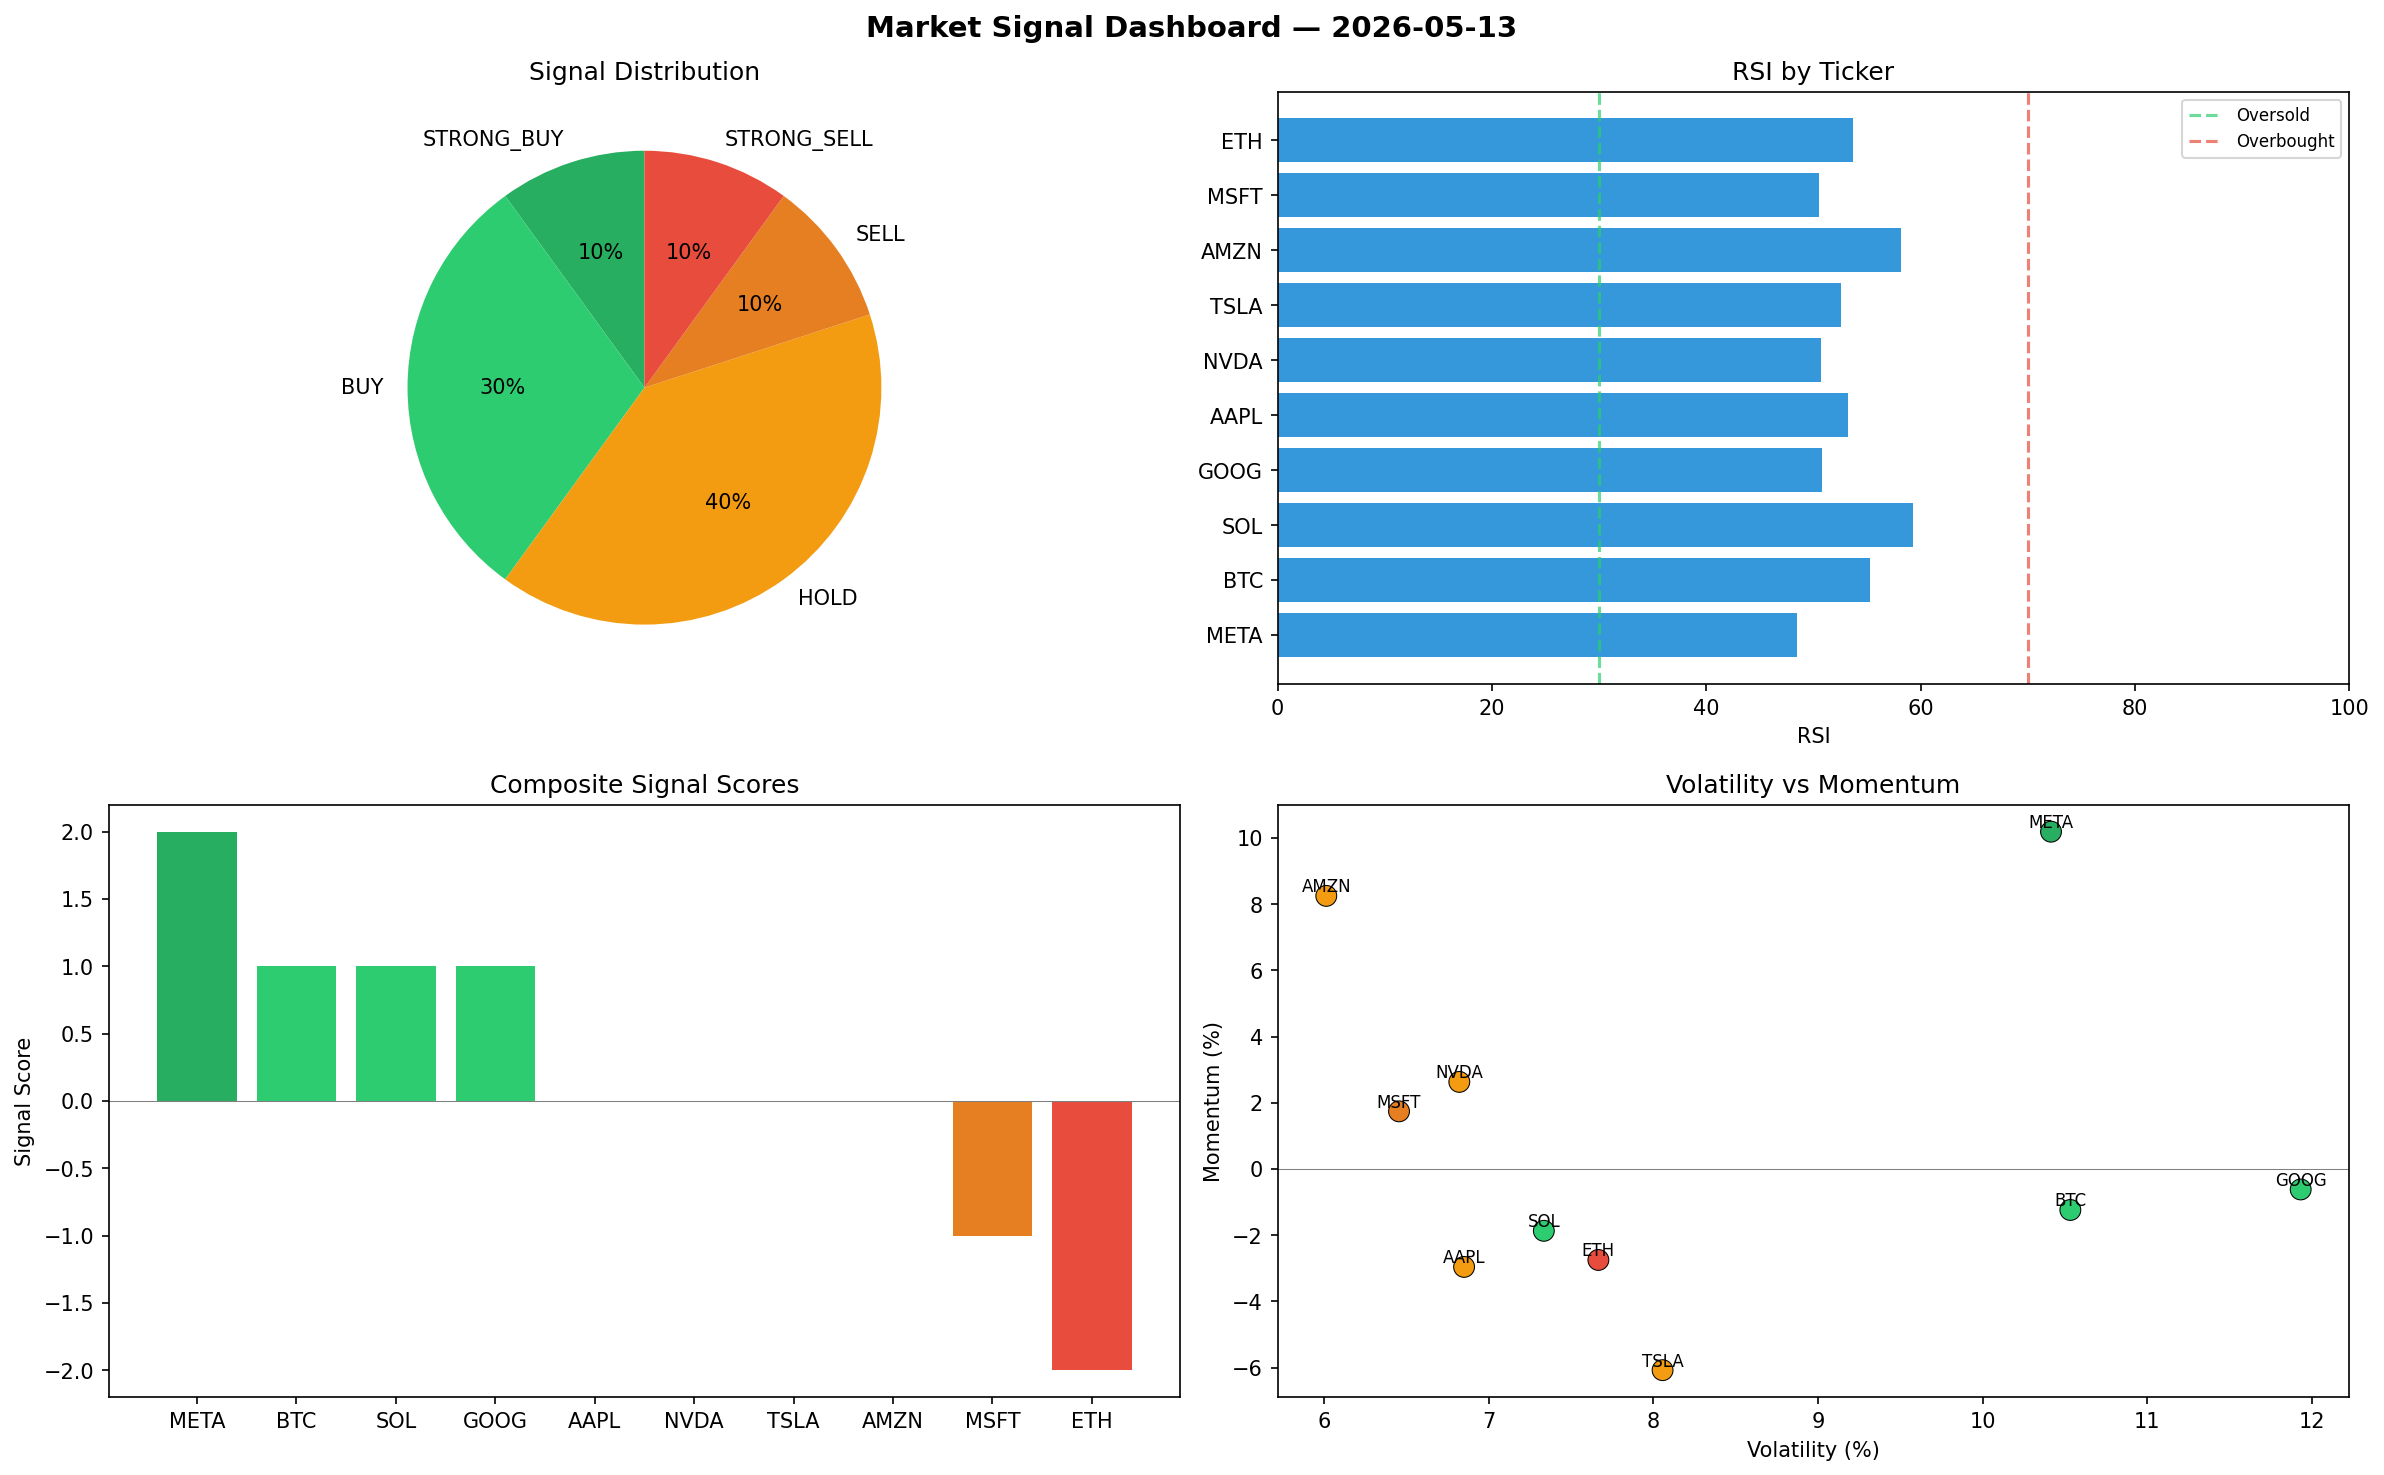
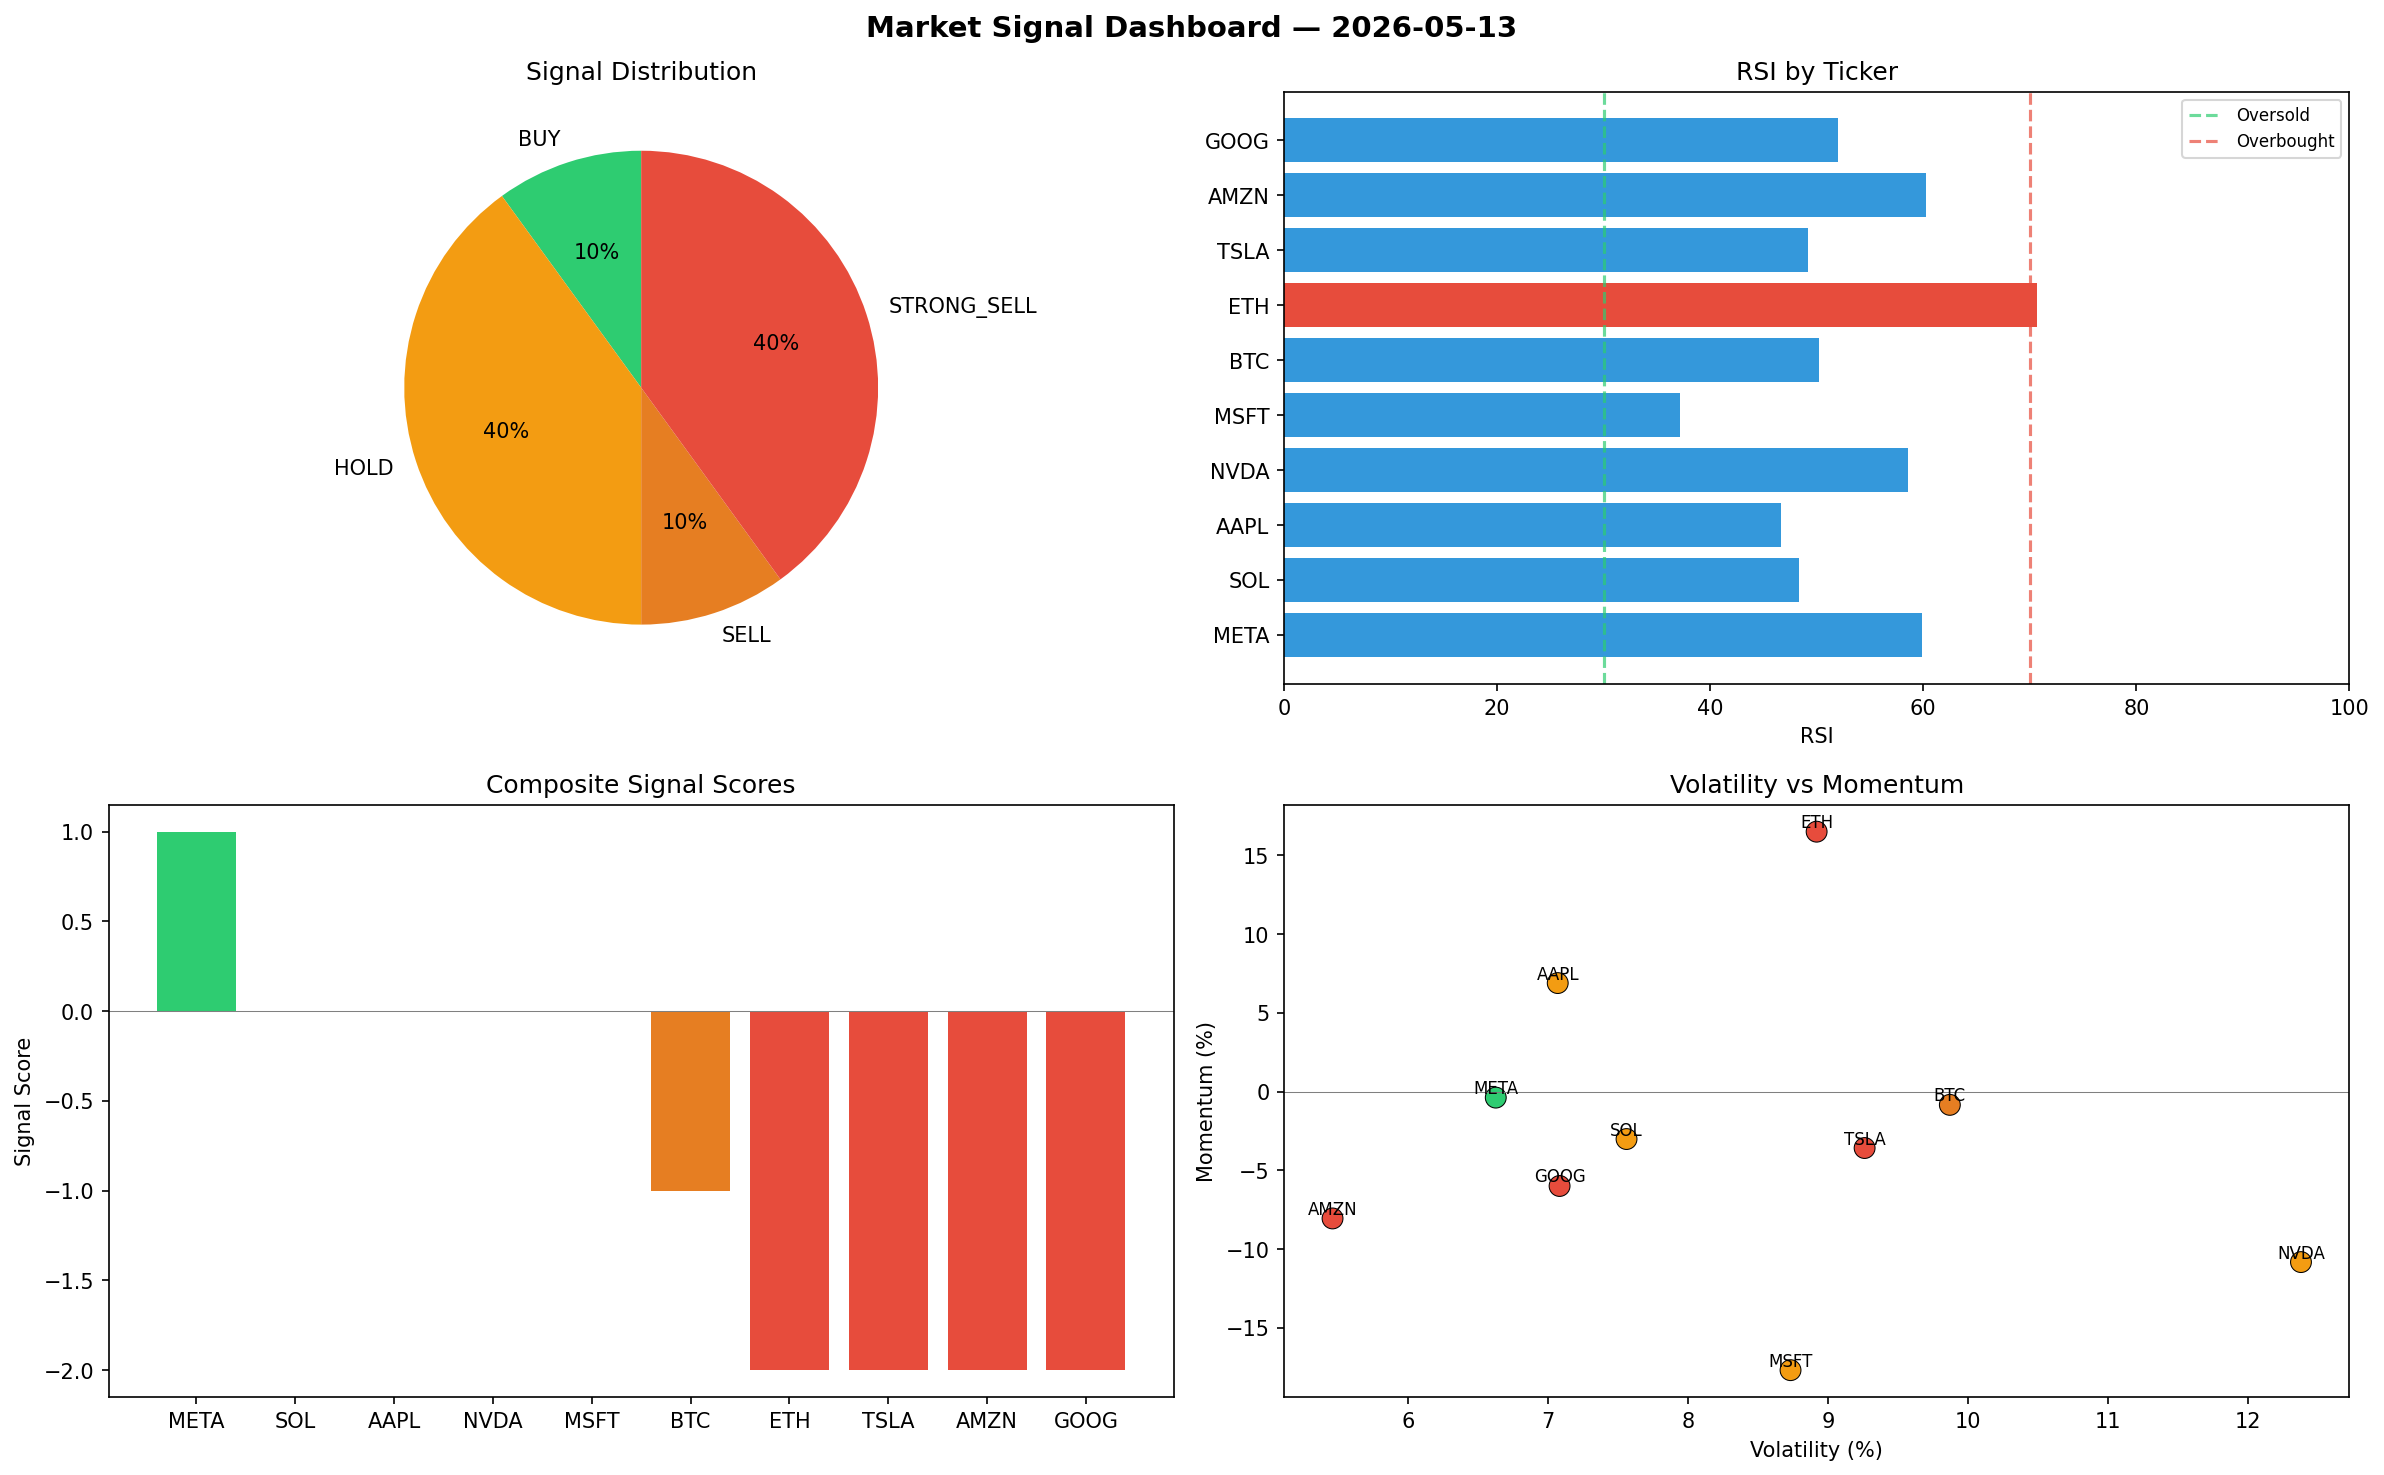
automated-bots: market signals 2026-05-13T21:49

diff --git a/logs/2026-05-13.md b/logs/2026-05-13.md
@@ -1,6 +1,6 @@
 # Market Signal Report — 2026-05-13
 
-**Run ID:** `9a9e86d3d4` | **Buy:** 4 | **Sell:** 2 | **Hold:** 4
+**Run ID:** `338286267d` | **Buy:** 1 | **Sell:** 5 | **Hold:** 4
 
 ![Dashboard](2026-05-13_dashboard.png)
 
@@ -8,28 +8,28 @@
 
 | Ticker | Price | Signal | Score | RSI | Momentum | Confidence |
 |--------|-------|--------|-------|-----|----------|------------|
-| META | $2678.22 | **STRONG_BUY** | 2 | 48.43 | 0.1019 | 0.5 |
-| BTC | $2933.16 | **BUY** | 1 | 55.3 | -0.0124 | 0.25 |
-| SOL | $4866.94 | **BUY** | 1 | 59.3 | -0.0187 | 0.25 |
-| GOOG | $3954.44 | **BUY** | 1 | 50.79 | -0.0062 | 0.25 |
-| AAPL | $4181.44 | **HOLD** | 0 | 53.24 | -0.0296 | 0.0 |
-| NVDA | $4699.36 | **HOLD** | 0 | 50.69 | 0.0263 | 0.0 |
-| TSLA | $2148.82 | **HOLD** | 0 | 52.6 | -0.0608 | 0.0 |
-| AMZN | $4125.42 | **HOLD** | 0 | 58.12 | 0.0825 | 0.0 |
-| MSFT | $4096.62 | **SELL** | -1 | 50.47 | 0.0174 | 0.25 |
-| ETH | $1335.54 | **STRONG_SELL** | -2 | 53.68 | -0.0275 | 0.5 |
+| META | $1778.5 | **BUY** | 1 | 59.84 | -0.0038 | 0.25 |
+| SOL | $2825.22 | **HOLD** | 0 | 48.31 | -0.0301 | 0.0 |
+| AAPL | $2561.83 | **HOLD** | 0 | 46.67 | 0.0689 | 0.0 |
+| NVDA | $1342.91 | **HOLD** | 0 | 58.58 | -0.1082 | 0.0 |
+| MSFT | $1403.03 | **HOLD** | 0 | 37.18 | -0.1768 | 0.0 |
+| BTC | $4675.96 | **SELL** | -1 | 50.17 | -0.0084 | 0.25 |
+| ETH | $2928.21 | **STRONG_SELL** | -2 | 70.72 | 0.165 | 0.5 |
+| TSLA | $601.88 | **STRONG_SELL** | -2 | 49.17 | -0.0358 | 0.5 |
+| AMZN | $2382.29 | **STRONG_SELL** | -2 | 60.26 | -0.0805 | 0.5 |
+| GOOG | $1591.27 | **STRONG_SELL** | -2 | 52.02 | -0.0599 | 0.5 |
 
 ## Delta vs Yesterday
 
 | Ticker | Today | Yesterday | Price Change | Signal Changed |
 |--------|-------|-----------|-------------|----------------|
-| META | STRONG_BUY | STRONG_BUY | 📈 226.95% | — |
-| BTC | BUY | HOLD | 📈 187.18% | ⚠ YES |
-| SOL | BUY | SELL | 📈 352.84% | ⚠ YES |
-| GOOG | BUY | STRONG_SELL | 📈 90.42% | ⚠ YES |
-| AAPL | HOLD | BUY | 📈 24.15% | ⚠ YES |
-| NVDA | HOLD | STRONG_SELL | 📈 26.95% | ⚠ YES |
-| TSLA | HOLD | HOLD | 📉 -55.38% | — |
-| AMZN | HOLD | HOLD | 📈 127.85% | — |
-| MSFT | SELL | STRONG_BUY | 📈 50.18% | ⚠ YES |
-| ETH | STRONG_SELL | HOLD | 📈 291.14% | ⚠ YES |
+| META | BUY | STRONG_BUY | 📈 117.11% | ⚠ YES |
+| SOL | HOLD | SELL | 📈 162.87% | ⚠ YES |
+| AAPL | HOLD | BUY | 📉 -23.94% | ⚠ YES |
+| NVDA | HOLD | STRONG_SELL | 📉 -63.72% | ⚠ YES |
+| MSFT | HOLD | STRONG_BUY | 📉 -48.56% | ⚠ YES |
+| BTC | SELL | HOLD | 📈 357.81% | ⚠ YES |
+| ETH | STRONG_SELL | HOLD | 📈 757.58% | ⚠ YES |
+| TSLA | STRONG_SELL | HOLD | 📉 -87.5% | ⚠ YES |
+| AMZN | STRONG_SELL | HOLD | 📈 31.58% | ⚠ YES |
+| GOOG | STRONG_SELL | STRONG_SELL | 📉 -23.37% | — |
